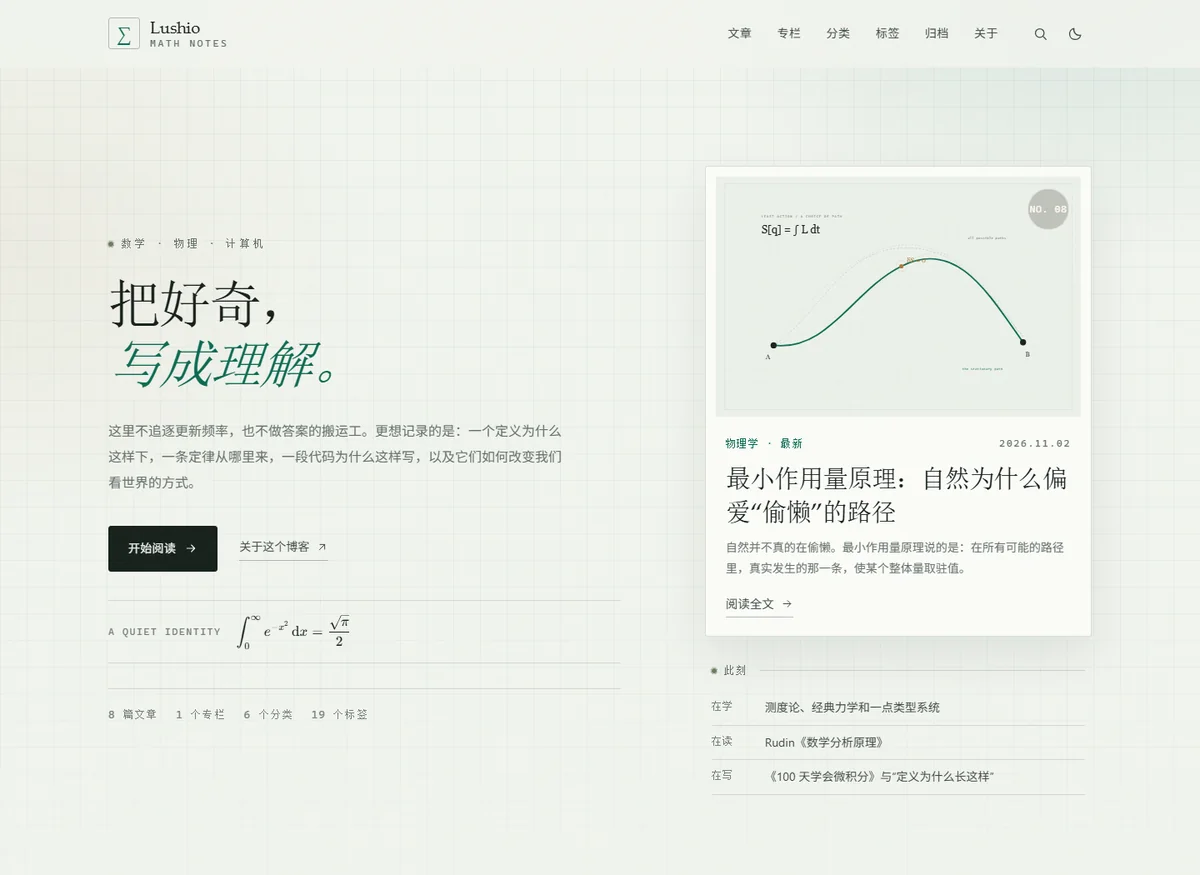
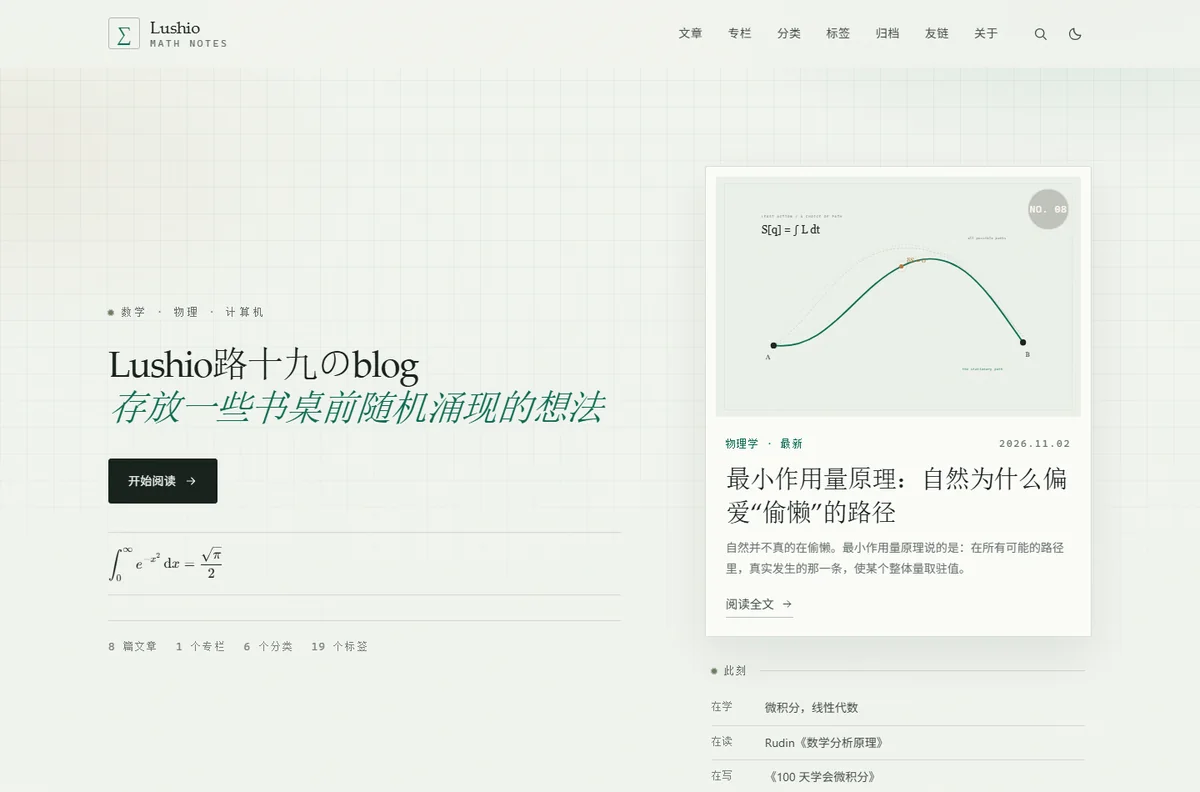
style: simplify homepage and move about link into footer

diff --git a/src/assets/styles.css b/src/assets/styles.css
@@ -639,10 +639,10 @@ ol {
 .hero h1 {
   margin-top: 26px;
   font-family: var(--serif);
-  font-size: clamp(38px, 4.4vw, 64px);
+  font-size: clamp(34px, 3.2vw, 44px);
   font-weight: 500;
-  line-height: 1.13;
-  letter-spacing: -0.045em;
+  line-height: 1.18;
+  letter-spacing: -0.04em;
 }
 
 .hero h1 em {
@@ -1072,37 +1072,6 @@ ol {
 
 .tag-pill:hover sup {
   color: var(--accent-soft);
-}
-
-.about-strip {
-  display: grid;
-  grid-template-columns: minmax(0, 1.15fr) minmax(0, 0.85fr);
-  gap: clamp(40px, 7vw, 100px);
-  padding-top: clamp(34px, 4vw, 52px);
-  border-top: 1px solid var(--line);
-}
-
-.about-quote {
-  font-family: var(--serif);
-  font-size: clamp(27px, 3.4vw, 44px);
-  line-height: 1.48;
-  letter-spacing: -0.03em;
-  color: var(--ink);
-}
-
-.about-strip-body {
-  align-self: end;
-  padding-bottom: 6px;
-}
-
-.about-strip-body > p {
-  font-size: 14.5px;
-  line-height: 1.95;
-  color: var(--muted);
-}
-
-.about-strip-body .text-link {
-  margin-top: 26px;
 }
 
 /* --------------------------------------------------------------------------
@@ -2354,23 +2323,36 @@ input[type="search"]::-webkit-search-decoration {
   padding-bottom: clamp(38px, 5vw, 56px);
 }
 
-.footer-brand .brand {
+.footer-brand-row {
+  display: flex;
+  align-items: center;
+  flex-wrap: wrap;
+  gap: 14px;
   margin-bottom: 16px;
 }
 
-.footer-brand > p {
-  max-width: 340px;
-  font-size: 14px;
-  line-height: 1.85;
-  color: var(--muted);
+.footer-brand .brand {
+  margin-bottom: 0;
 }
 
-.footer-brand .footer-note {
-  margin-top: 12px;
-  font-family: var(--serif);
-  font-size: 14px;
-  font-style: italic;
-  color: var(--faint);
+.footer-about-link {
+  padding-bottom: 2px;
+  border-bottom: 1px solid var(--line-strong);
+  font-size: 13px;
+  color: var(--muted);
+  transition: color 0.2s ease, border-color 0.2s ease;
+}
+
+.footer-about-link:hover {
+  color: var(--accent);
+  border-color: var(--accent);
+}
+
+.footer-brand > p {
+  max-width: 380px;
+  font-size: 14.5px;
+  line-height: 1.85;
+  color: var(--muted);
 }
 
 .footer-label {
@@ -2432,23 +2414,12 @@ input[type="search"]::-webkit-search-decoration {
 .hero-formula {
   display: flex;
   align-items: center;
-  gap: 18px;
   margin-top: 34px;
   padding: 15px 0 14px;
   border-top: 1px solid var(--line);
   border-bottom: 1px solid var(--line);
   color: var(--ink-soft);
   overflow-x: auto;
-}
-
-.hero-formula .formula-label {
-  flex: none;
-  font-family: var(--mono);
-  font-size: 12px;
-  line-height: 1.4;
-  letter-spacing: 0.12em;
-  text-transform: uppercase;
-  color: var(--faint);
 }
 
 .hero-formula .katex-display {
@@ -3579,15 +3550,6 @@ input[type="search"]::-webkit-search-decoration {
     gap: 34px;
   }
 
-  .about-strip {
-    grid-template-columns: minmax(0, 1fr);
-    gap: 28px;
-  }
-
-  .about-strip-body {
-    max-width: 560px;
-  }
-
   .archive-year {
     grid-template-columns: 100px minmax(0, 1fr);
     gap: 24px;
@@ -3656,8 +3618,8 @@ input[type="search"]::-webkit-search-decoration {
 
   .hero h1 {
     margin-top: 20px;
-    font-size: clamp(33px, 9vw, 44px);
-    line-height: 1.18;
+    font-size: clamp(28px, 6.8vw, 34px);
+    line-height: 1.22;
   }
 
   .hero-intro {
@@ -3939,13 +3901,8 @@ input[type="search"]::-webkit-search-decoration {
 
 @media (max-width: 640px) {
   .hero-formula {
-    gap: 10px;
     margin-top: 26px;
     padding: 12px 0;
-  }
-
-  .hero-formula .formula-label {
-    display: none;
   }
 
   .hero-formula .katex {

diff --git a/content/pages/about.md b/content/pages/about.md
@@ -1,39 +1,29 @@
 ---
 title: "关于"
 eyebrow: "About · 关于这个博客"
-summary: "一个写代码的人，和他认真对待的数学、物理与计算机科学。"
+summary: "一个普通人对浩瀚数理学科的，微不足道的感悟。"
 ---
 
 你好，我是 **Lushio**。
 
-白天写代码，晚上读数学和物理。这个博客是我在互联网上的一个小房间，用来存放那些不想被信息流冲走的部分：一个定义为什么这样下，一条定律从哪里来，一段代码为什么这样写，以及那些突然想通的瞬间。
+00后，因为一些原因没有完成学业，兜兜转转，换过几份工作，意料之中地没有干成什么事，现在待在家里，兼职做家教。
 
-## 这里有什么
+对数学，物理和计算机科学一直有很深的兴趣，但是总是没有好好开始探索，于是想着从这段时间开始学。
 
-- **数学**：分析、代数、概率，以及定义背后的动机。
-- **物理**：经典力学、变分原理，以及数学如何描述自然。
-- **计算机科学**：算法、程序语言、计算本身的结构。
-- **随笔**：关于证明、写作和学习方式的零散想法。
+不是专业人士，也不是魔怔人，就是一个普通爱好者，记录一下自己的这段学习。
 
-分类是固定的书架，标签是可以跨书架的关键词；专栏则是那些会持续很久的文章集。你可以从任意一个入口开始。
+不建议通过这些文章应试，可能覆盖不了学校的考试内容。
 
-## 为什么写这些
+## 分类
 
-数学、物理和计算机科学看起来是三个学科，但它们经常在处理同一件事：**如何把复杂的世界压缩成可以理解的结构。**
-
-数学给出定义和证明，物理给出定律和近似，计算机科学给出可执行的构造。它们彼此借用语言，也彼此暴露边界。
-
-> 证明不是装饰，而是把直觉交给所有人检查的方式。
-
-我不打算把这里做成题库或教程站。比起“这题怎么做”，我更想写“这个定义为什么长这样”“这个证明的动机从哪里来”“这段代码为什么能停”。这些内容不一定能帮你多考几分，但可能会让你在某个时刻突然觉得，这些东西其实是可以被理解的。
+- **数学**：打算学微积分，线性代数和数理统计。
+- **物理**：很遗憾我高中学的文科，对物理是一窍不通，从头开始看吧。
+- **计算机科学**：打算先学网站开发，一直想搞个自己的网站。
+- **随笔**：随机。
 
 ## 关于专栏
 
-有些主题不适合用单篇文章讲完。
-
-《100 天学会微积分》会从变化率开始，一天写一个小问题，慢慢走完微积分的骨架。专栏页面会按顺序列出所有篇目，适合从头读，也适合回来查。
-
-以后可能还会有别的专栏：一个长期的物理笔记系列，或者一组关于程序语言的文章。
+有些主题不适合用单篇文章讲完。目前第一个专栏打算是微积分的长期学习笔记。
 
 ## 关于公式
 
@@ -58,3 +48,7 @@ $$
 这个网站使用纯 Node.js 静态生成，托管在 GitHub Pages 上。你可以在 [GitHub](https://github.com/lushio69) 找到我，或者在文章下方留言。
 
 谢谢你来过。
+
+## 感谢
+
+感谢Deepseek让我有了这个博客，我对技术一窍不通。
